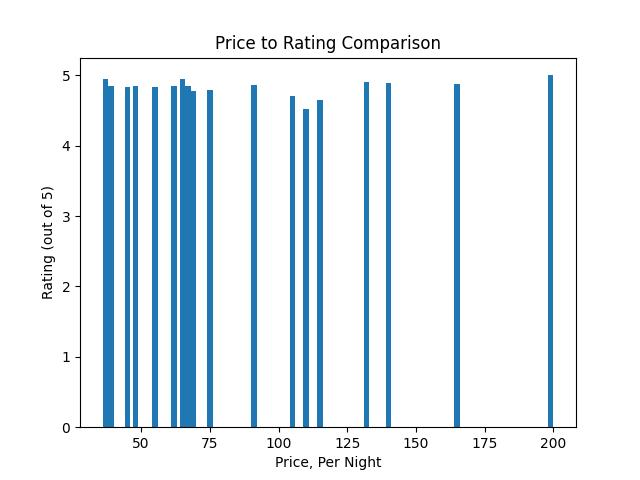
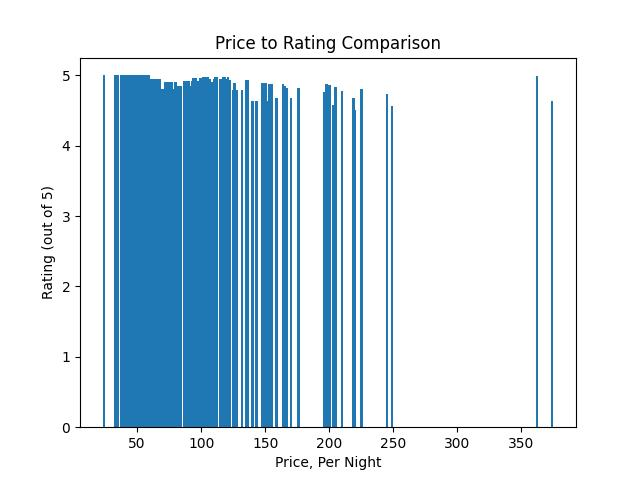
error should be fixed - the issue came from trying to take the percentile of a string New (listings not yet rated were throwing the calculation program because they weren't properly tagged and dropped from the dict)

Changed region(s): [[0.1562, 0.1562, 0.9062, 0.9375]]

diff --git a/src/outputs/updated.html b/src/outputs/updated.html
@@ -9,22 +9,25 @@
 <body>
     <h1>Airbnb Report</h1>
     <div>Airbnb Hosting report for Hillsboro, Oregon, US</div>
-    <div>This report scraped a total of 20 listings off of the Airbnb website</div>
-    <div>Date Created: 2022-11-03 14:56:07.208887</div>
+    <div>This report scraped a total of 400 listings off of the Airbnb website</div>
+    <div>Date Created: 2022-11-07 14:45:22.816541</div>
+    <br>
+    <div>This project is still in basic testing</div>
 
     <h2>Report Overview:</h2>
-    <p>Average price, per night: 85.05</p>
+    <p>Average price, per night: 96.16</p>
     <p>(Please note that the above average is calculated only using collected data.
         This means that the average price per night may differ in accuracy and number depending 
         on the selcted dataset size)
     </p>
-    <p>There were 0 scraped listings that have not yet been rated in this area</p>
-    <p>Listings above the 90 percentile in price scored an average of 4.9 stars. The most expensive listing scraped cost $199 per night.</p>
-    <p>Listings below the 10 percentile in price scored an average of 4.81 stars. The cheapest listing scraped cost $37 per night.</p>
+    <p>There were 9 scraped listings that have not yet been rated in this area</p>
+    <p>Listings above the 80 percentile in price scored an average of 4.91 stars. The most expensive listing scraped cost $374 per night.</p>
+    <p>Listings below the 20 percentile in price scored an average of 4.87 stars. The cheapest listing scraped cost $24 per night.</p>
 
     <h3>Graphs:</h3>
     <p>Figure 1 demonstrates relationship between rating and price, per night</p>
     <img src=.\outputs\tempPlot.jpg alt=ppnRatingComparison width="500" height="500"/>
+    <br>
 </body>
 
 </html>

diff --git a/src/templates/mainLayout.html b/src/templates/mainLayout.html
@@ -11,6 +11,8 @@
     <div>Airbnb Hosting report for {{city}}, {{state}}, {{country}}</div>
     <div>This report scraped a total of {{totalScrapedHouses}} listings off of the Airbnb website</div>
     <div>Date Created: {{time}}</div>
+    <br>
+    <div>This project is still in basic testing</div>
 
     <h2>Report Overview:</h2>
     <p>Average price, per night: {{averagePrice}}</p>
@@ -25,6 +27,7 @@
     <h3>Graphs:</h3>
     <p>Figure 1 demonstrates relationship between rating and price, per night</p>
     <img src={{source}} alt={{alt}} width="500" height="500"/>
+    <br>
 </body>
 
 </html>

diff --git a/src/dataRetrieval/scrapeData.py b/src/dataRetrieval/scrapeData.py
@@ -1,6 +1,7 @@
 from msilib.schema import Error
 from bs4 import BeautifulSoup as bs
 import requests
+import numpy as np
 
 """I  find it weird that no listing (except for ONE) has ever been under 4.5 stars...
 """ 
@@ -22,54 +23,60 @@ def get_page(city, state, country, n=1, debug=False):
     
     allPrices = []
     allRatings = []
-    
-    try:
-        # Create base string
-        city = city.replace(" ","-")
-        country = country.replace(" ", "-")
+    errors = 0
 
-        # Get 4 pages of info
+    # try:
+    # Create base string
+    city = city.replace(" ","-")
+    country = country.replace(" ", "-")
 
-        links = [f"http://airbnb.com/s/{city}--{state}--{country}/homes?tab_id=home_tab&" + \
-                 "refinement_paths%5B%5D=%2Fhomes&" + \
-                 f"flexible_trip_lengths%5B%5D=one_week&items_offset={20*(i+1)}&section_offset=3" 
-                 for i in range(n)]
+    # Get 4 pages of info
 
-        if debug:
-            for l in links:
-                print(f"Link: {l}")
+    links = [f"http://airbnb.com/s/{city}--{state}--{country}/homes?tab_id=home_tab&" + \
+                "refinement_paths%5B%5D=%2Fhomes&" + \
+                f"flexible_trip_lengths%5B%5D=one_week&items_offset={20*(i+1)}&section_offset=3" 
+                for i in range(n)]
 
+    if debug:
         for l in links:
+            print(f"Link: {l}")
 
-            res = requests.get(l)
-            soup = bs(res.text, 'html.parser')
+    for l in links:
 
-            listings = soup.find_all("div", {"class": "c4mnd7m dir dir-ltr"})
+        res = requests.get(l)
+        soup = bs(res.text, 'html.parser')
 
-            for l in listings:
-                #Find price and separate it from dollar sign
-                left = str(l.find_all("span", {"class": "a8jt5op dir dir-ltr"})[0]).split(" per")[0]
-                price = int(left.split("$")[1])
-                #taking out any commas if a house is in the thousands
-                #if "," in priceString:
-                #    priceString.replace(",", "")
-                # price = int(priceString.split("$")[1])
+        # print("Parser setup complete\n")
+        listings = soup.find_all("div", {"class": "c4mnd7m dir dir-ltr"})
 
-                allPrices.append(price)
-                
-                #Find corresponding rating, separate it from html
+        for l in listings:
+            #Find price and separate it from dollar sign
+            left = str(l.find_all("span", {"class": "a8jt5op dir dir-ltr"})[0]).split(" per")[0]
+            price = int(left.split("$")[1])
+            #taking out any commas if a house is in the thousands
+            #if "," in priceString:
+            #    priceString.replace(",", "")
+            # price = int(priceString.split("$")[1])
+
+            allPrices.append(price)
+            
+            #Find corresponding rating, separate it from html
+
+            try:
                 rating = str(l.find_all("span", {"class": "r1dxllyb dir dir-ltr"})[0]).split(" per")[0]
-                ratingValue = str((rating.split(">")[1]).split("(")[0])
-
-                #Defaulting new listings without any ratings to a string value. May want to consider removing corresponding houses
-                if ratingValue[0] == "N":
+                # print(rating)
+                ratingValue = str((rating.split("("))[0])
+                # print(ratingValue)
+                dataPos = ratingValue.rfind(">")+1
+                ratingValue = ratingValue[dataPos:]
+                # print(ratingValue)
+                
+                if str(ratingValue)[0] == "N":
                     ratingValue = "New"
-                allRatings.append(ratingValue)
 
-        return True, allPrices, allRatings
-    
-    except Exception as e:
-        # print(f"{len(allPrices)}\n\n{allPrices}")
-        # print(f"{len(allRatings)}\n\n{allRatings}")
-        print(e)
-        return False, allPrices, allRatings
+            except IndexError:
+                ratingValue = "New"
+
+            allRatings.append(ratingValue)
+
+    return True, allPrices, allRatings, errors

diff --git a/src/main.py b/src/main.py
@@ -8,9 +8,9 @@ from sendReport.sendOff import pdfOut
 
 #temp
 location = {"city":"Hillsboro", "state":"Oregon", "country":"US"}
-n = 1
-highPercent = 90
-lowPercent = 10
+n = 20
+highPercent = 80
+lowPercent = 20
 
 """An important note is that the Airbnb website displays their best rated / superhost homes FIRST. This means that
 as of right now in the code, all scraped ratings are almost always going to be above 4. This makes data analysis
@@ -20,10 +20,11 @@ scrape 10x more data when creating the final report.
 if __name__ == "__main__":
     outFile = "outputs/output.txt"
     templateFile = "templates/mainLayout.html"
-    status, ppN, ratings = get_page(location["city"], location["state"], location["country"], n, debug=False)
+    status, ppN, ratings, errors = get_page(location["city"], location["state"], location["country"], n, debug=False)
 
     costRatingRaw = dictFromLists(ppN, ratings)
     costRatingCleaned = cleanDict(float, costRatingRaw)
+
     barGraphOccurences("Price, Per Night", list(costRatingCleaned.keys()), "Rating (out of 5)", list(costRatingCleaned.values()), "Price to Rating Comparison")
 
     ppnAverage = findAverage(ppN, 2)
@@ -31,7 +32,6 @@ if __name__ == "__main__":
 
     highEndListings, topHouse = (expensiveRatings(costRatingCleaned, highPercent))
     highAverage = findAverage(highEndListings.values(), 2)
-
     cheapListings, lowHouse = (cheapRatings(costRatingCleaned, lowPercent))
     cheapAverage = findAverage(cheapListings.values(), 2)
 
@@ -48,7 +48,8 @@ if __name__ == "__main__":
         cheapAverage, 
         lowHouse, 
         ".\\outputs\\tempPlot.jpg", 
-        "ppnRatingComparison"
+        "ppnRatingComparison",
+
         )
     
     pdfOutput.loadTemplate()

diff --git a/src/createReport/generateTemplate.py b/src/createReport/generateTemplate.py
@@ -74,7 +74,7 @@ class pdfTemplate():
             cheapPrice = self.leastExpensive,
 
             source = self.graph,
-            alt = self.alternateText
+            alt = self.alternateText,
 
         ) 
 
